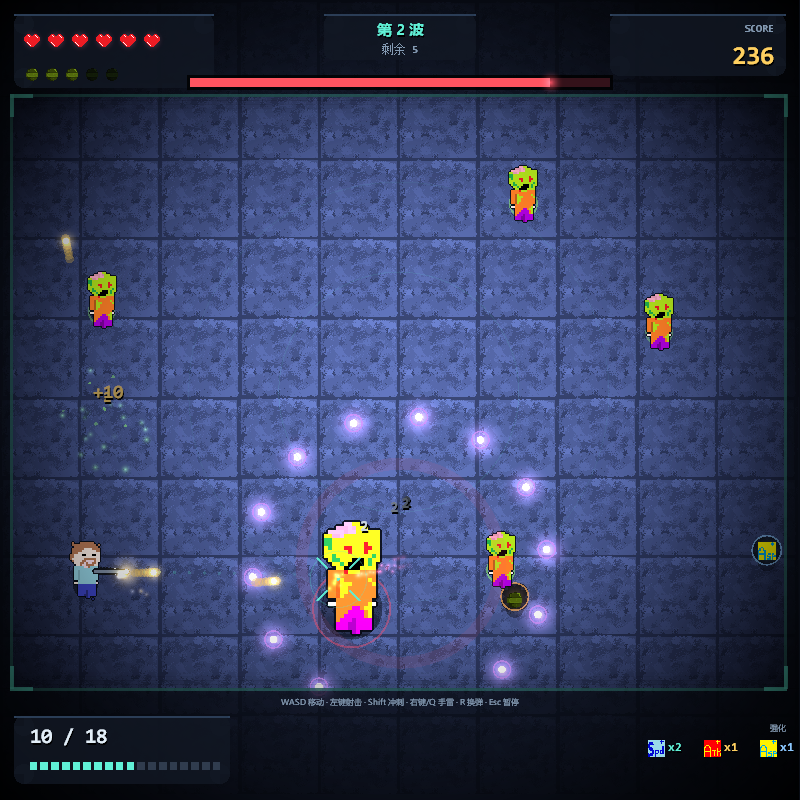
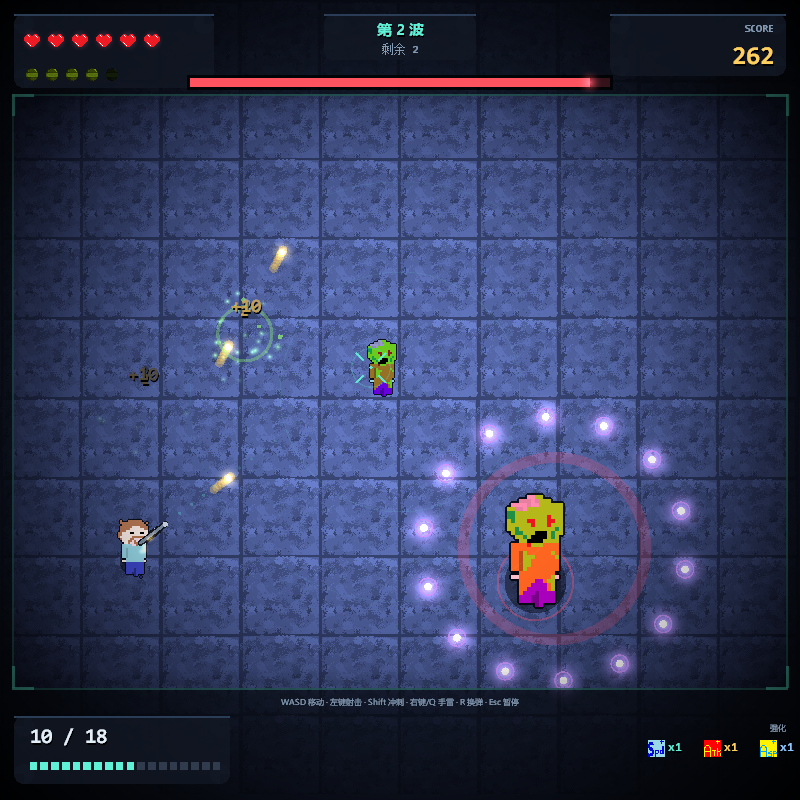
polish: 结算界面用死亡瞬间的数据快照，删除已弃用的预旋转精灵帧
- 死亡后 World 仍在后台跑，结算面板改读 finalStats_ 快照，分数不再漂移
- 玩家改用「正面精灵 + 左右镜像 + 程序化枪管」，预旋转 40 帧真正删除
- 刷新 docs/screenshots（战斗 / 首领 / 标题 / 结算）

diff --git a/src/gfx/Assets.cpp b/src/gfx/Assets.cpp
@@ -133,14 +133,6 @@ bool Assets::load(const std::string& executableDirectory)
     const Rgba kOutline = rgba(6, 10, 18, 230);
     hero = img("hero.png").scaledNearest(2).outline(kOutline, 1);
     heroLeft = hero.mirroredX();
-    if (!hero.empty()) {
-        heroFrames.reserve(kHeroFrameCount);
-        for (int i = 0; i < kHeroFrameCount; ++i) {
-            const float radians = static_cast<float>(i) * kTau / static_cast<float>(kHeroFrameCount);
-            // 素材朝上（-y），运行时角度 0 指向 +x，因此补 90°
-            heroFrames.push_back(hero.rotated(radians + kPi * 0.5f));
-        }
-    }
 
     // ------------------------------------------------------------ 敌人 ----
     zombie = img("enemy.png").scaledNearest(2).outline(kOutline, 1);
@@ -171,18 +163,6 @@ bool Assets::load(const std::string& executableDirectory)
     LS_LOG("assets loaded from %s (hero %dx%d, bg %dx%d)", root.c_str(), hero.width(), hero.height(),
            background.width(), background.height());
     return loaded_;
-}
-
-const Sprite& Assets::heroFrame(float aimRadians) const
-{
-    if (heroFrames.empty()) return hero;
-    // 帧序号：素材朝上，需补 90°
-    float normalized = (aimRadians + kPi * 0.5f) / kTau;
-    normalized -= std::floor(normalized);
-    int index = static_cast<int>(normalized * static_cast<float>(kHeroFrameCount) + 0.5f);
-    index %= kHeroFrameCount;
-    if (index < 0) index += kHeroFrameCount;
-    return heroFrames[static_cast<size_t>(index)];
 }
 
 Assets& assets()

diff --git a/src/gfx/Assets.h b/src/gfx/Assets.h
@@ -14,9 +14,6 @@
 
 namespace ls {
 
-// 玩家朝向的预旋转帧数
-constexpr int kHeroFrameCount = 40;
-
 struct Assets
 {
     std::string root;     // assets 目录（绝对路径）
@@ -28,7 +25,6 @@ struct Assets
     // ---------------------------------------------------------- 玩家 ----
     Sprite hero;                                    // 基础朝向（朝上）
     Sprite heroLeft;                                // 水平镜像（朝左时用）
-    std::vector<Sprite> heroFrames;                 // 预旋转 40 帧（备用/装饰）
 
     // ---------------------------------------------------------- 敌人 ----
     Sprite zombie;
@@ -58,9 +54,6 @@ struct Assets
     // 加载全部资源；rootPath 为仓库根目录（会自动寻找 assets/）
     bool load(const std::string& executableDirectory);
     bool loaded() const { return loaded_; }
-
-    // 取玩家朝向帧
-    const Sprite& heroFrame(float aimRadians) const;
 
 private:
     bool loaded_ = false;

diff --git a/src/game/Game.cpp b/src/game/Game.cpp
@@ -273,7 +273,10 @@ void Game::startRun()
 
 void Game::endRun()
 {
-    const RunStats& stats = world_.stats();
+    // 结算界面用的是"死亡那一瞬间"的快照：
+    // 死亡后 World 还在后台慢慢跑，不能让它的击杀继续改分数。
+    finalStats_ = world_.stats();
+    const RunStats& stats = finalStats_;
     if (stats.score > record_.bestScore) {
         record_.bestScore = stats.score;
         newRecord_ = true;
@@ -432,7 +435,7 @@ void Game::renderGameOver()
     canvas_.desaturate(0.35f);
     canvas_.fillScreen(withAlpha(palette::kInk, 0.72f));
 
-    const RunStats& stats = world_.stats();
+    const RunStats& stats = finalStats_;
 
     ui::Font title = ui::fontTitle();
     title.size = 58;

diff --git a/src/game/Game.h b/src/game/Game.h
@@ -70,6 +70,7 @@ private:
     Hud hud_;
     ParticleSystem ambience_;
     Record record_;
+    RunStats finalStats_;   // 结算界面用的死亡瞬间快照
     AppOptions options_;
 
     std::string exeDirectory_;
